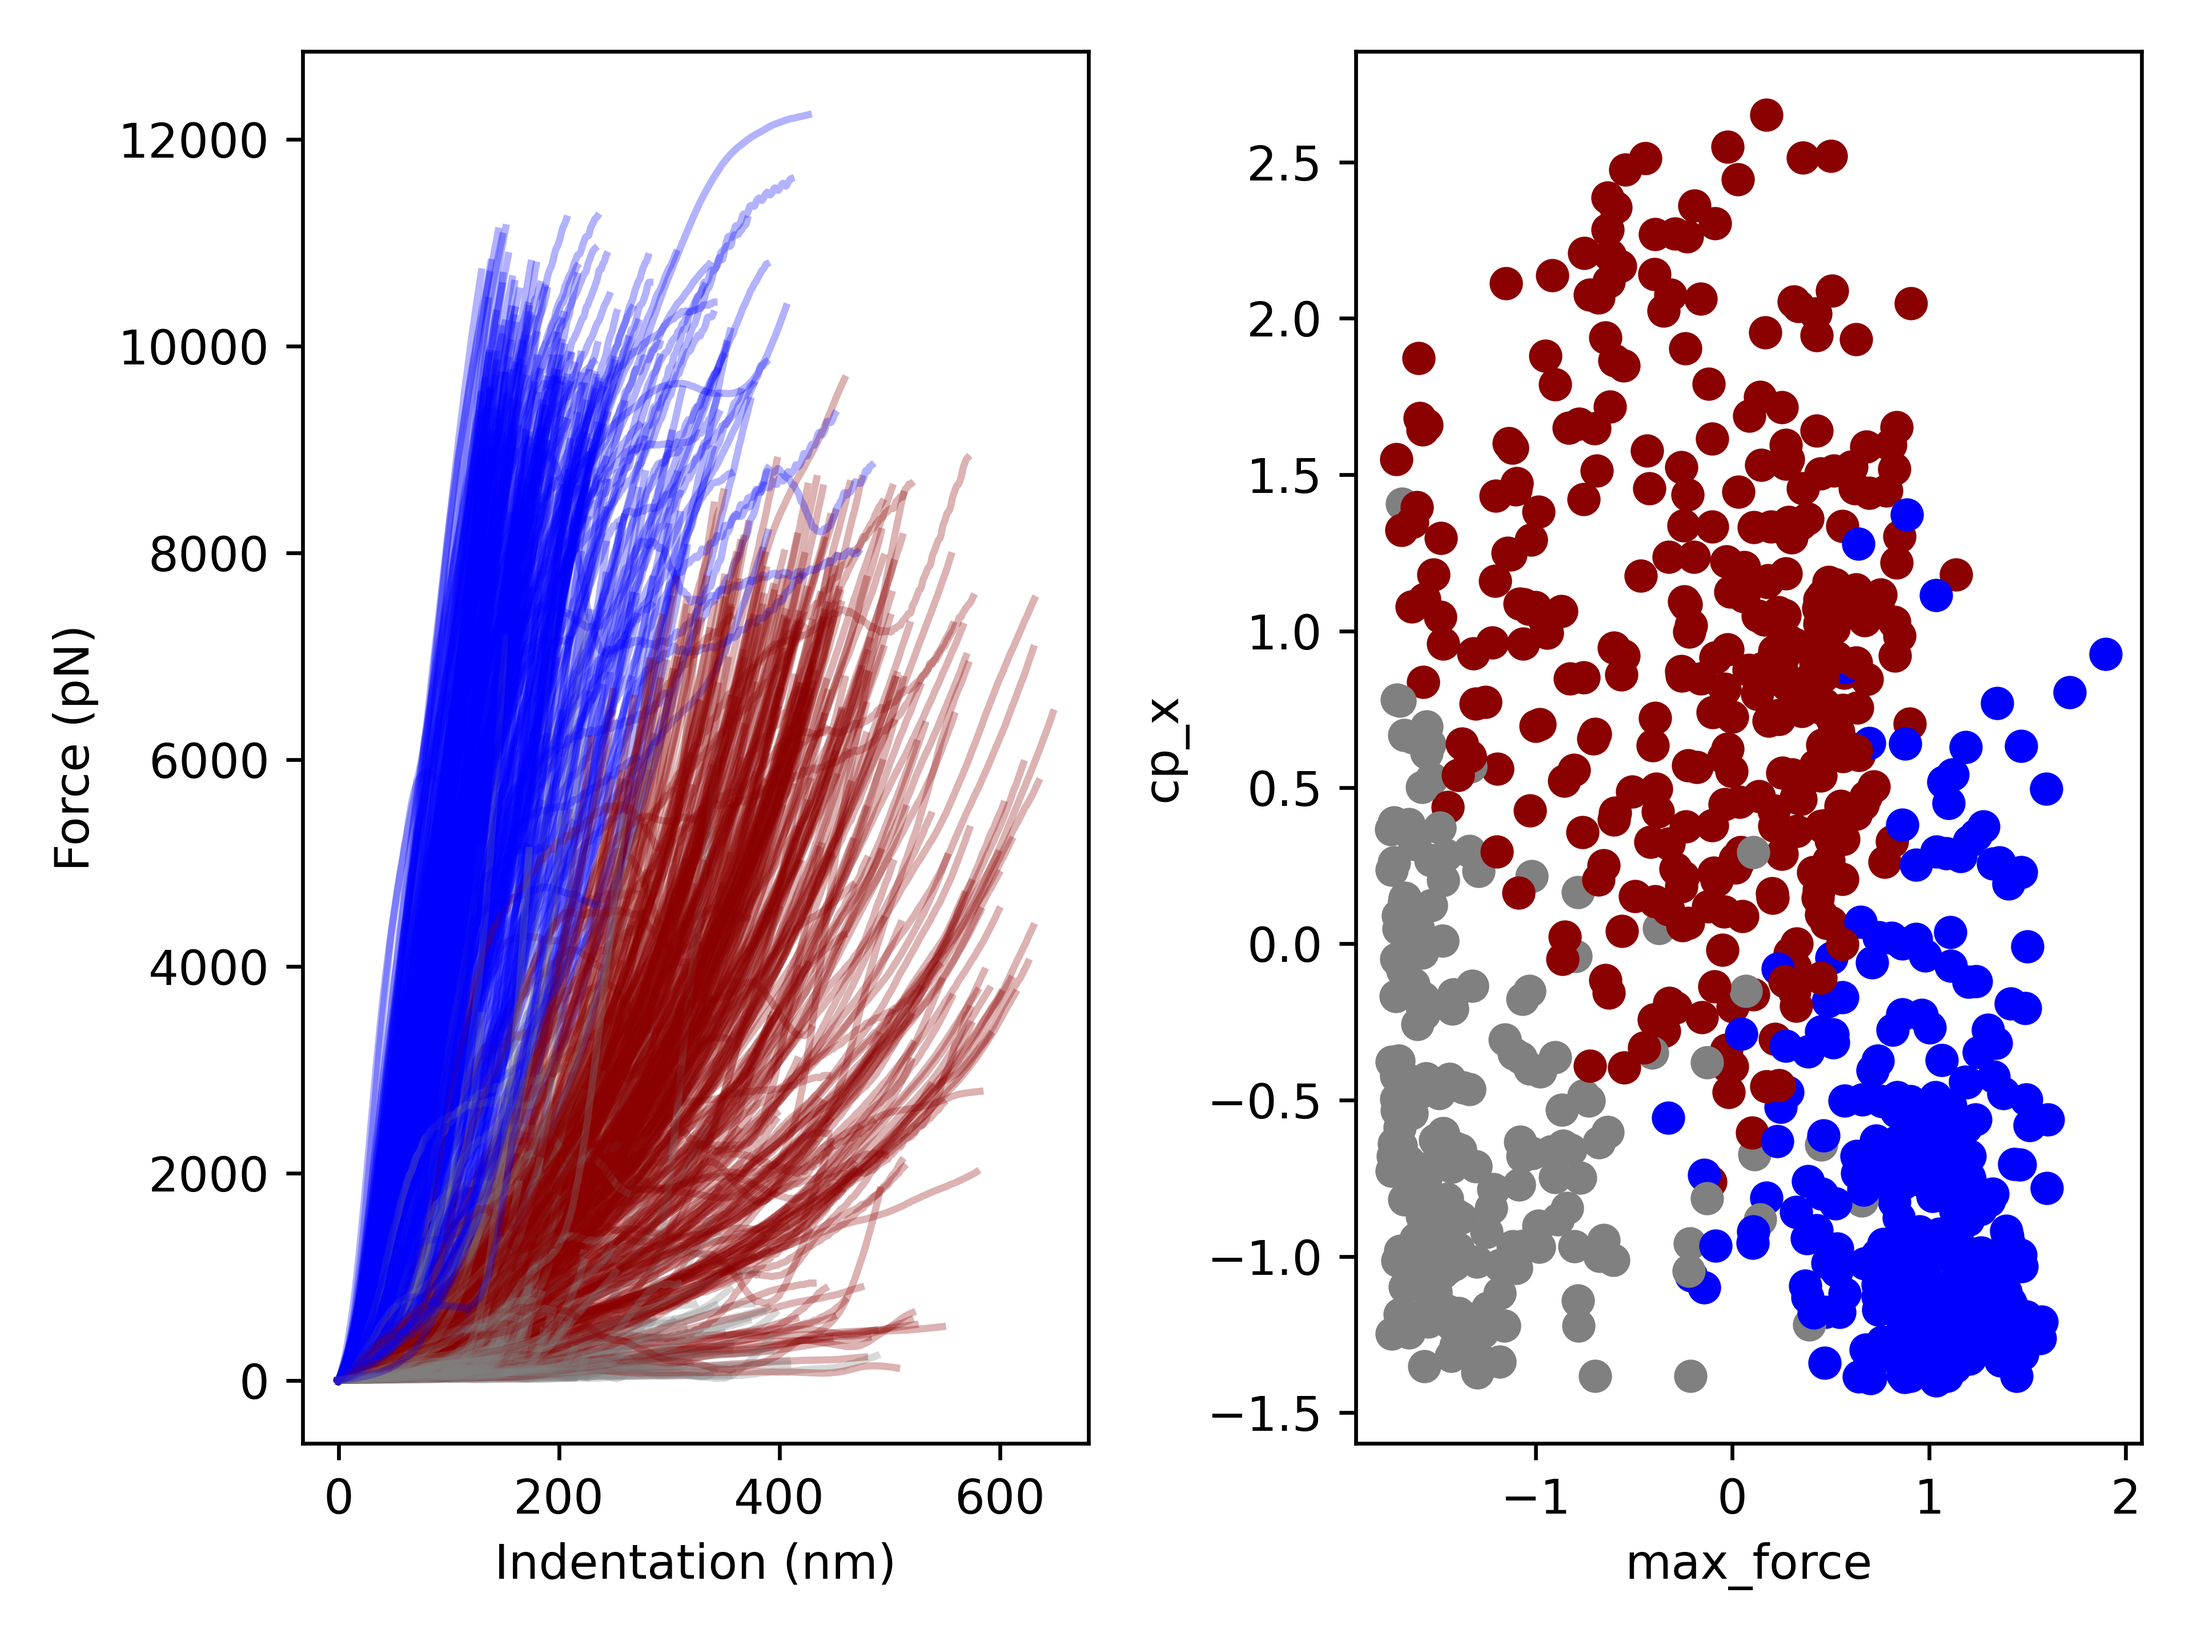
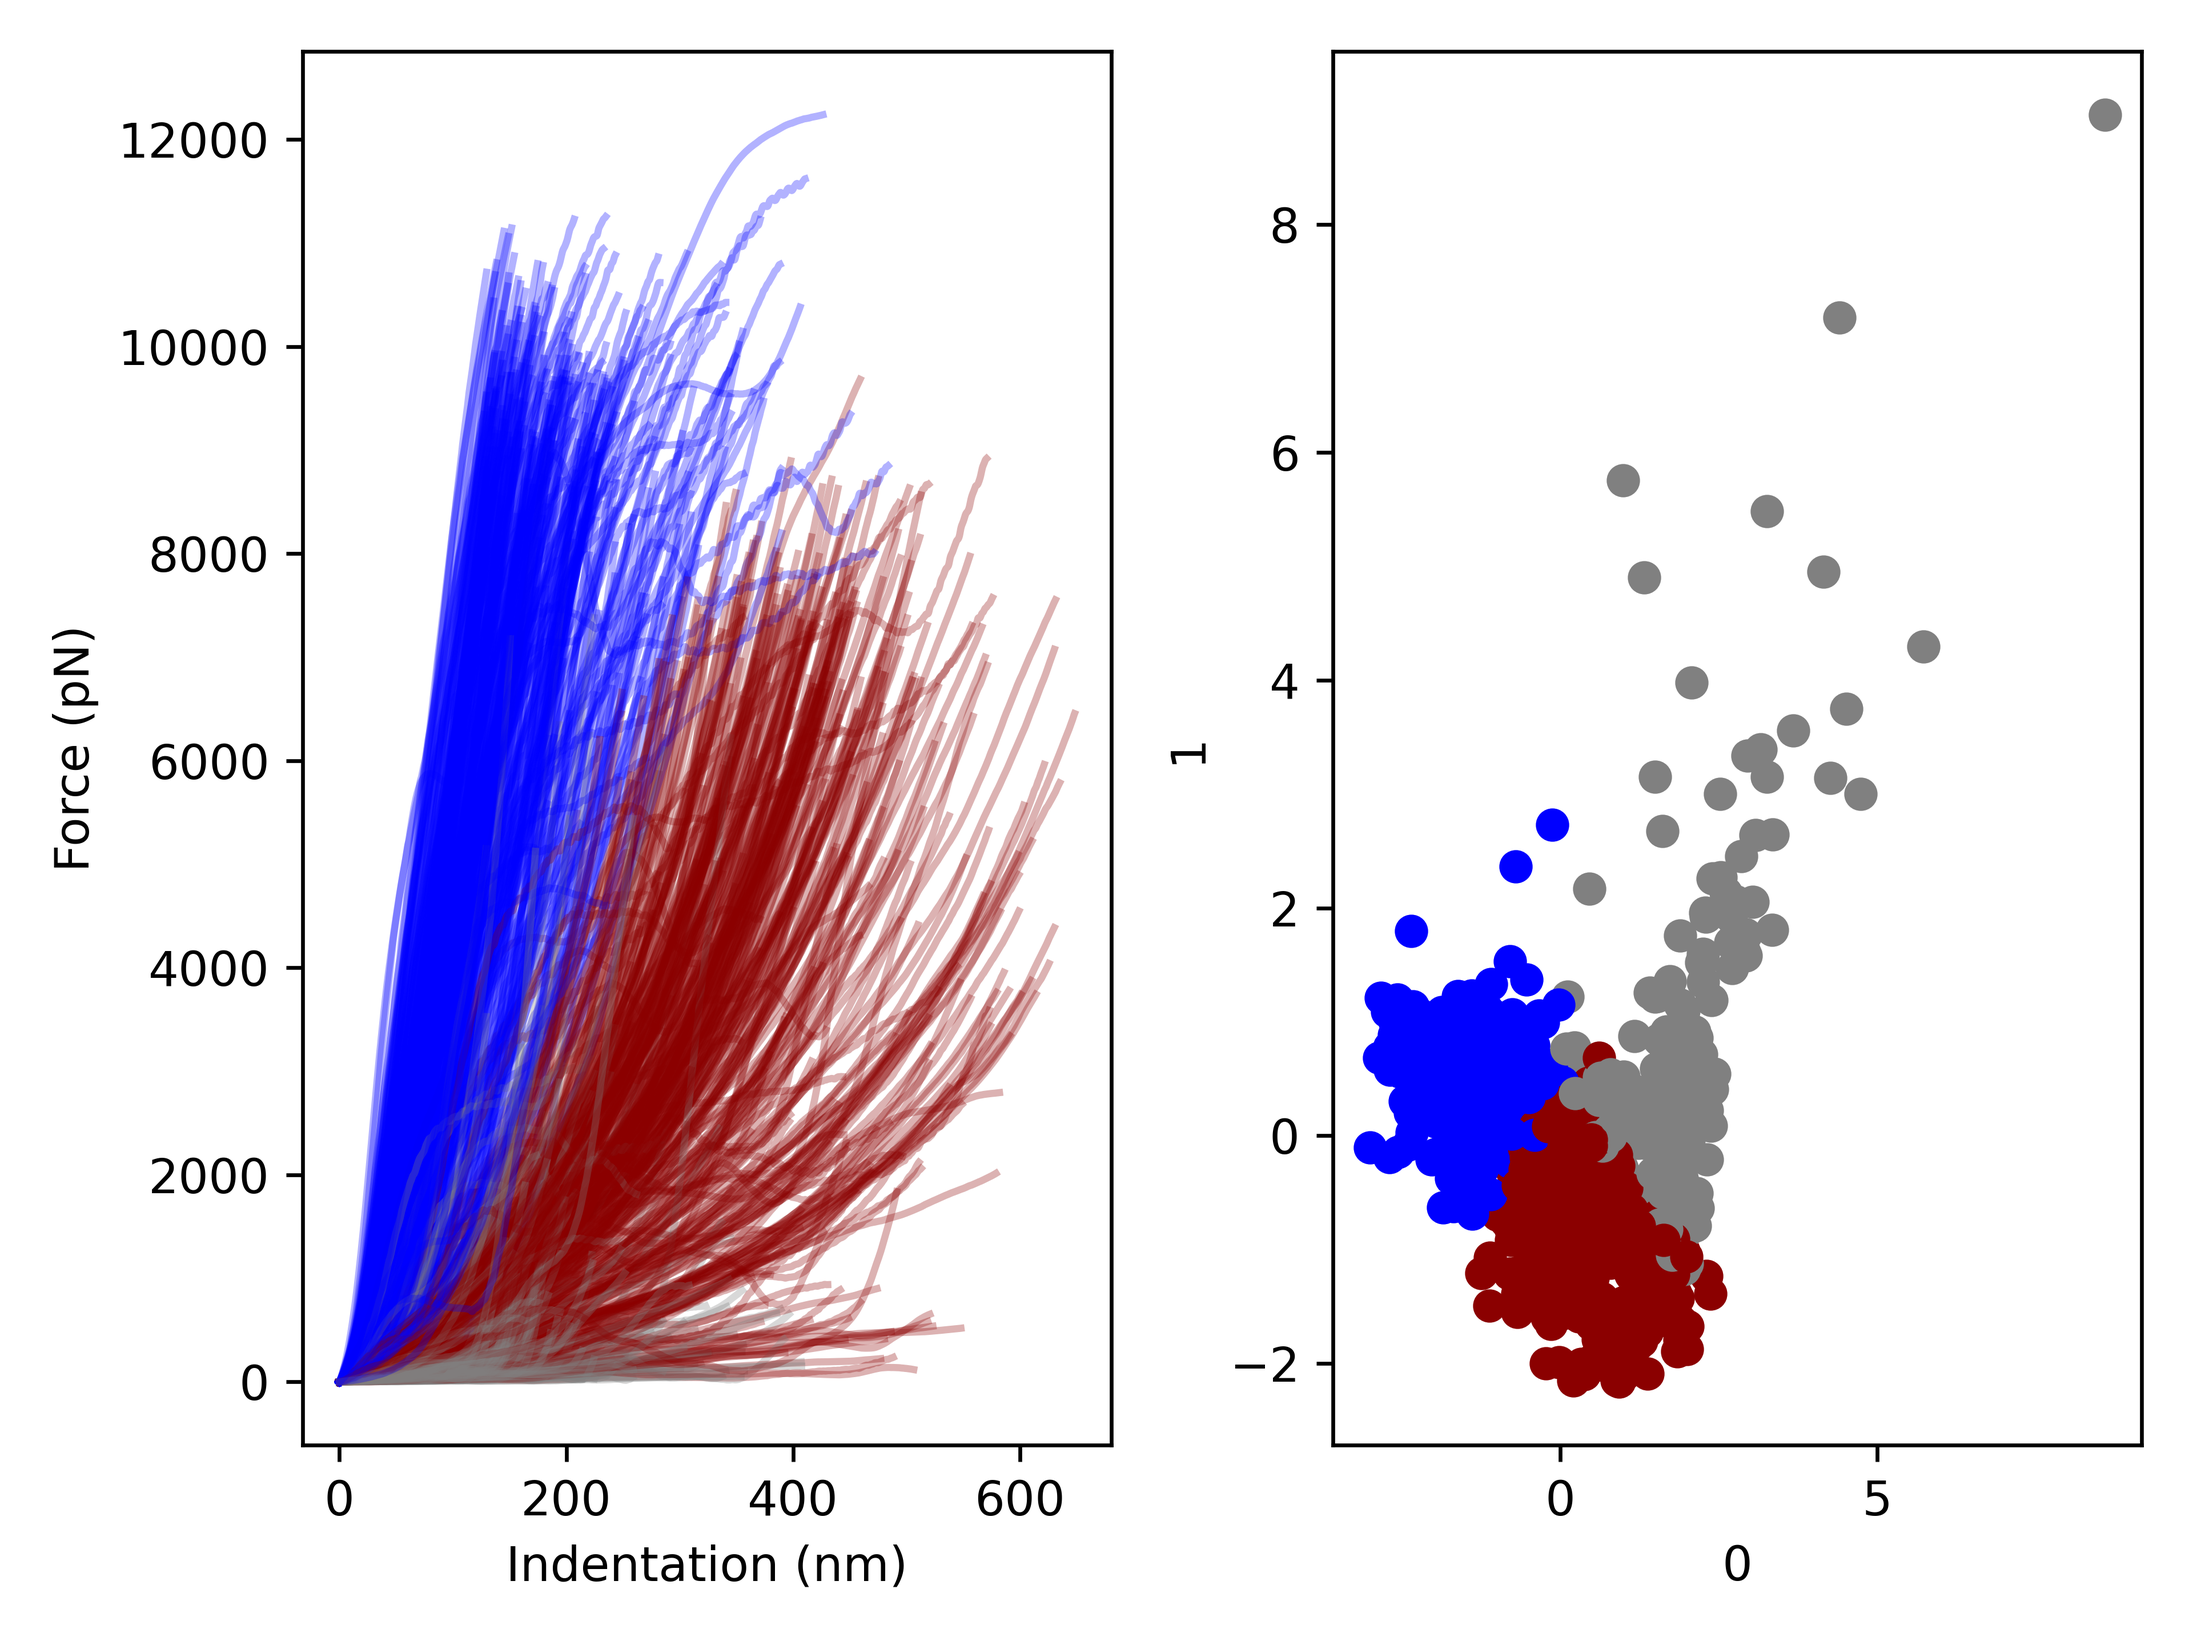
minor edits on PCA selection and figures

diff --git a/PCA_KMeans_Clustering/KMeans_after_PCA.py b/PCA_KMeans_Clustering/KMeans_after_PCA.py
@@ -80,7 +80,7 @@ plt.show()
 
 # Using 4 components we can explain > 90% variance
 pca = PCA(n_components=4, random_state=21)
-pca.fit(scaled_df)
+pca_df = pd.DataFrame(pca.fit_transform(scaled_df))
 # to figure out the features that are important
 sd = np.abs(pca.components_[0]).argsort()[::-1]
 major_components = pd.DataFrame(np.abs(pca.components_[0]),
@@ -90,13 +90,14 @@ print("Major components: ")
 print(major_components.sort_values(by='Value', ascending=False))
 # Elbow method for deciding the optimal number of clusters in KMeans
 inertia = []
-for i in range(1, scaled_df.shape[1]+1):
+
+for i in range(1, pca_df.shape[1]+1):
     # performing KMeans for different cluster numbers and calculating the inertia
     KM = KMeans(n_clusters=i, init='k-means++', n_init='auto', random_state=21)
-    KM.fit(scaled_df)
+    KM.fit(pca_df)
     inertia.append(KM.inertia_)
 plt.title('KMeans of the PCA')
-plt.plot(range(1, scaled_df.shape[1]+1), inertia, marker='o')
+plt.plot(range(1, pca_df.shape[1]+1), inertia, marker='o')
 plt.xlabel('Clusters')
 plt.ylabel('KMeans Inertia')
 plt.savefig("KMean_after_PCA_Elbow.png", dpi=600)
@@ -104,16 +105,17 @@ plt.show()
 
 # After deciding the optimal number of clusters, perform KMeans
 Kmeans_pca = KMeans(n_clusters=3, init='k-means++', n_init='auto', random_state=21)
-Kmeans_pca.fit(scaled_df)
+Kmeans_pca.fit(pca_df)
 # these are the cluster labels
 cluster_labels = Kmeans_pca.labels_
 # creating a dataframe from the components used by the KMeans
-df_pc = pd.DataFrame(scaled_df)
+df_pc = pd.DataFrame(pca_df)
 df_pc['Label'] = cluster_labels
+print(df_pc)
 # plotting the clusters
-sns.scatterplot(data=df_pc, x='max_force', y="cp_x", hue='Label', palette="viridis")
+sns.scatterplot(data=df_pc, x=df_pc.iloc[:,0], y=df_pc.iloc[:,1], hue='Label', palette="viridis")
 plt.title('Scatter plot of the clusters')
-plt.scatter(Kmeans_pca.cluster_centers_[:, 2], Kmeans_pca.cluster_centers_[:, 3], s=100, c='red', label='Centroids')
+plt.scatter(Kmeans_pca.cluster_centers_[:, 0], Kmeans_pca.cluster_centers_[:, 1], s=100, c='red', label='Centroids')
 plt.savefig("KMean_after_PCA_Clusters&Centroids.png", dpi=300)
 plt.show()
 
@@ -154,9 +156,9 @@ for i, curve in enumerate(df["curve_id"].values):
     ax[0].plot(fit_separation, fit_force, alpha=0.3, c=c[cluster_n])
     ax[0].set_xlabel("Indentation (nm)")
     ax[0].set_ylabel("Force (pN)")
-    ax[1].scatter(df_pc.iloc[i, 2], df_pc.iloc[i, 3], c=c[cluster_n])
-    ax[1].set_xlabel(df_pc.columns[2])
-    ax[1].set_ylabel(df_pc.columns[3])
+    ax[1].scatter(df_pc.iloc[i, 0], df_pc.iloc[i, 1], c=c[cluster_n])
+    ax[1].set_xlabel(df_pc.columns[0])
+    ax[1].set_ylabel(df_pc.columns[1])
 plt.tight_layout()
 # saving the plot
 plt.savefig("KMean_after_PCA_Clusters&Curves.png", dpi=600)
